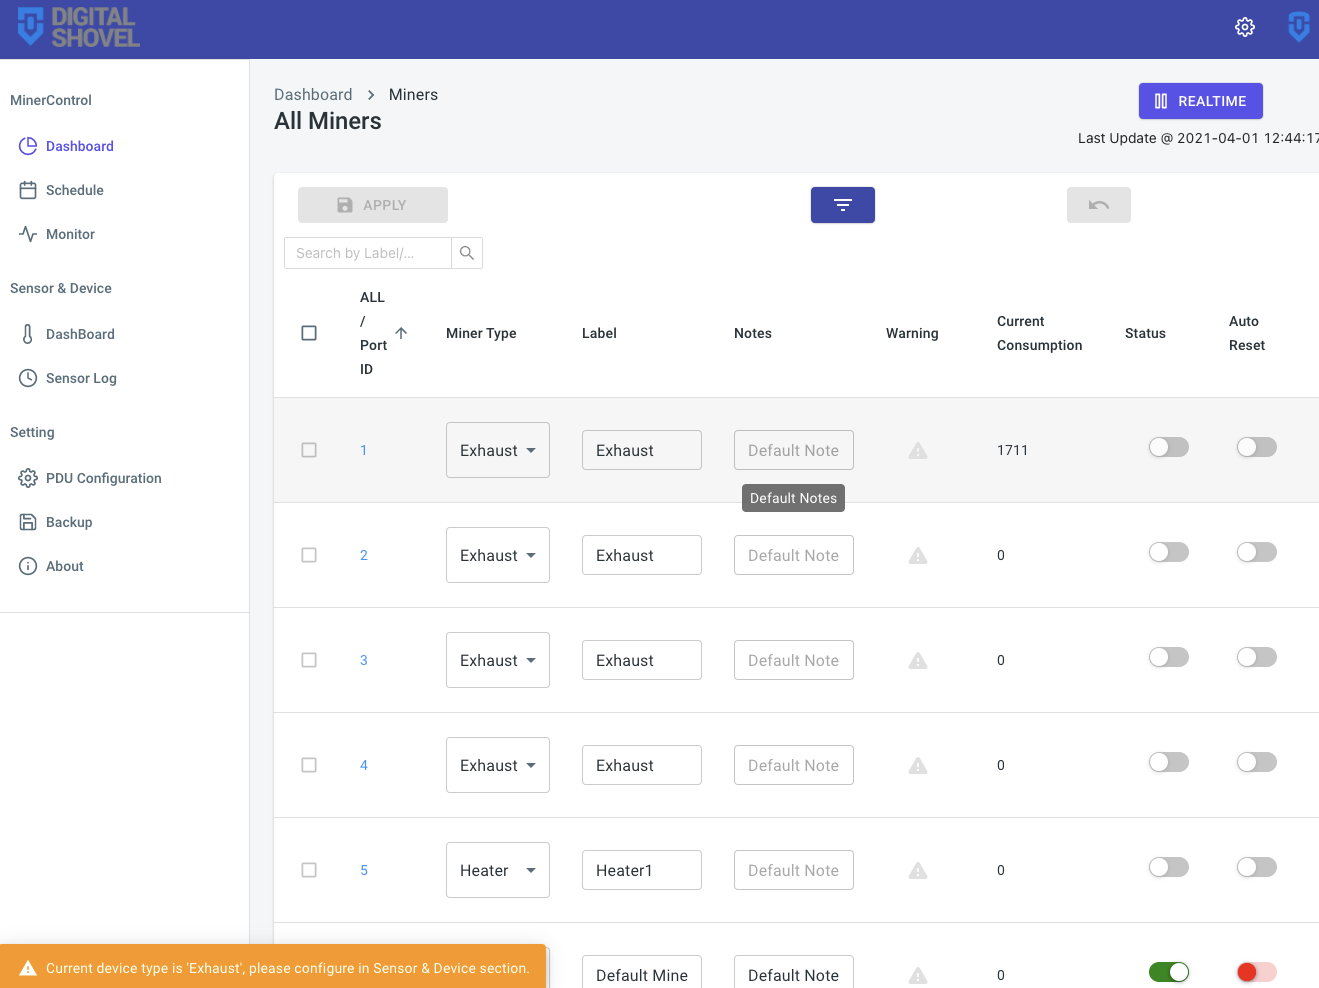
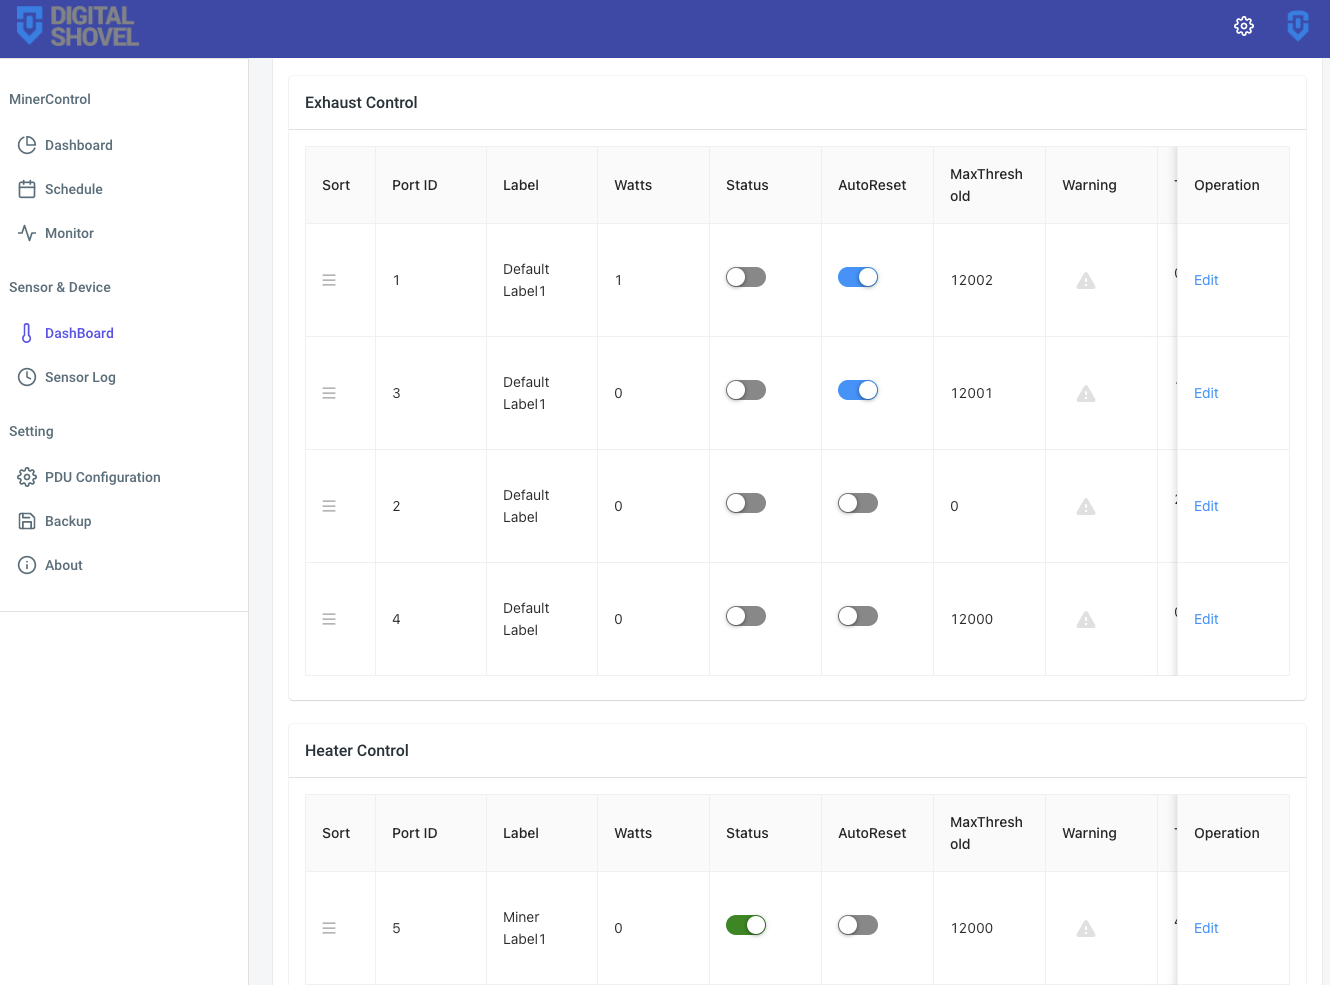
GitBook: [master] 5 pages and 9 assets modified

diff --git a/projects/minercontrol/feature.md b/projects/minercontrol/feature.md
@@ -10,13 +10,13 @@ For example, a Smart PDU has 46 ports, one customer uses 43 ports for `Miner`, 4
 
 1. Go to Dashboard, change ID 1-4 ports `Type` to `Exhaust`.
 2. Change ID 5 ports `Type` to `Heater`.
-3. In this case, users **are not able** to control Port 1-5.
+3. In this case, users **are not able** to control Port 1-5. ![](../../.gitbook/assets/image.png) 
 4. Go to `Sensor & Device` -&gt; `DashBoard`
 5. Setup device and drag to reset priority.
 
 ![Change Type](../../.gitbook/assets/image%20%281%29.png)
 
-![Setup Device](../../.gitbook/assets/image%20%286%29.png)
+![Setup Device](../../.gitbook/assets/image.png)
 
 ## 2. Build-in API Docs
 

diff --git a/README.md b/README.md
@@ -1,5 +1,5 @@
 ---
-description: This is a public
+description: Revolutionary Crypto Mining Container Manufacturer
 ---
 
 # DigitalShovel
